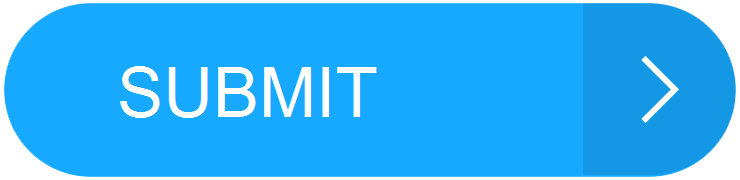
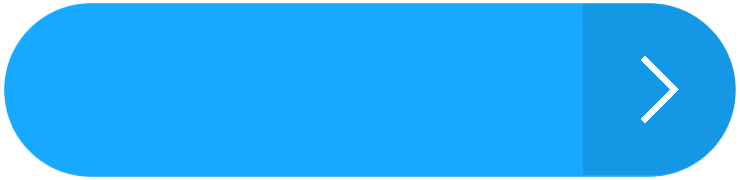
button done I think :P

Changed region(s): [[0.1554, 0.3611, 0.5284, 0.6667], [0.9014, 0.5, 0.9324, 0.5278], [0.8703, 0.5556, 0.9014, 0.5833]]

diff --git a/MonoForms/MonoFormsLibrary/UI/UiButton.cs b/MonoForms/MonoFormsLibrary/UI/UiButton.cs
@@ -24,13 +24,13 @@ namespace MonoFormsLibrary.UI
 
         public override void Draw(SpriteBatch spriteBatch)
         {
-            float textureScale = 0.3f;
+            float textureScale = 2f;
             float textureWidth = _texture.Width * textureScale;
             float textureHeight = _texture.Height * textureScale;
             
             Vector2 textSize = Font.MeasureString(Text);
             spriteBatch.Draw(_texture, Position - new Vector2(textureWidth / 2f, textureHeight / 2f), null, Color.White, 0f , new Vector2(), textureScale, SpriteEffects.None, 0f);
-            spriteBatch.DrawString(Font, Text, Position - textSize / 2, Color.Black, 0, Vector2.Zero, 1f, SpriteEffects.None, 0);
+            spriteBatch.DrawString(Font, Text, Position - textSize / 2- new Vector2(45*textureScale,0), Color.White, 0, Vector2.Zero, 1f, SpriteEffects.None, 0);
 
             if (IsHighlighted)
                 spriteBatch.Draw(_highlightTexture, Position - new Vector2(_highlightTexture.Width, _highlightTexture.Height / 2f) - new Vector2(textSize.X / 2, 0), Color.White);

diff --git a/MonoForms/MonoForms/Game1.cs b/MonoForms/MonoForms/Game1.cs
@@ -51,7 +51,7 @@ namespace MonoForms
         {
             // Create a new SpriteBatch, which can be used to draw textures.
             spriteBatch = new SpriteBatch(GraphicsDevice);
-            btn = new UiButton(this, Vector2.One, "", Content.Load<SpriteFont>("file") ,
+            btn = new UiButton(this, Vector2.One, "Hej", Content.Load<SpriteFont>("file") ,
                 delegate(object sender, EventArgs args)
                 {
                     Exit();
